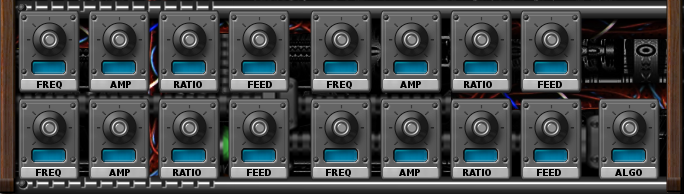
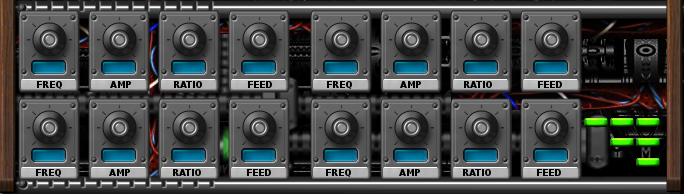
FM/DX manual update.

Changed region(s): [[0.8289, 0.4948, 0.9825, 0.9278]]

diff --git a/dock/doc/docs.html b/dock/doc/docs.html
@@ -107,6 +107,7 @@
         <a href="#predicate_BuildAdsrPanel">BuildAdsrPanel</a>
         <a href="#predicate_BuildChorusPanel">BuildChorusPanel</a>
         <a href="#predicate_BuildDelayPanel">BuildDelayPanel</a>
+        <a href="#predicate_BuildDX9Panel">BuildDX9Panel</a>
         <a href="#predicate_BuildEGPanel">BuildEGPanel</a>
         <a href="#predicate_BuildFEGPanel">BuildFEGPanel</a>
         <a href="#predicate_BuildFilterPanel">BuildFilterPanel</a>
@@ -144,6 +145,7 @@
         <a href="#predicate_command_centre">CommandCentre</a>
         <a href="#predicate_CorePanel">CorePanel</a>
         <a href="#predicate_DelayPanel">DelayPanel</a>
+        <a href="#predicate_DX9Panel">DX9Panel</a>
         <a href="#predicate_EGPanel">EGPanel</a>
         <a href="#predicate_FEGPanel">FEGPanel</a>
         <a href="#predicate_FilterPanel">FilterPanel</a>
@@ -1834,6 +1836,18 @@ A typical construction of an instrument and inserting it into the superstructure
 </div>
 
 <div class="doc_predicate">
+    <a id="predicate_BuildDX9Panel">
+        <div class="doc_predicate_header">
+            [BuildDX9Panel module instrument : selector] => Builds a DX9 panel.<br />
+        </div>
+        <div class="doc_predicate_body">
+            This is a shortcut designed to find the appropriate parameter blocks in superstructure
+            and build a DX9 panel.
+        </div>
+    </a>
+</div>
+
+<div class="doc_predicate">
     <a id="predicate_BuildEGPanel">
         <div class="doc_predicate_header">
             [BuildEGPanel module instrument : selector] => Builds an EG panel.<br />
@@ -2322,6 +2336,23 @@ A typical construction of an instrument and inserting it into the superstructure
 </div>
 
 <div class="doc_predicate">
+    <a id="predicate_DX9Panel">
+        <div class="doc_predicate_header">
+            [DX9Panel module algo freq1 amp1 ratio1 feedback1 .... freq4 amp4 ratio4 feedback4] => Creates a panel for an FM4 module block.<br />
+            [module *x *y] => reposition on the screen<br />
+            [module] => closes the panel<br />
+        </div>
+        <div class="doc_predicate_body">
+            Creates a panel for 22 parameter blocks commonly associated with DX9 block.
+            Range different for each knob.
+            The resolution is 128 steps with left mouse button and 16384 with the right one.<br />
+            <b>Note:</b> do not use DX9Panel directly. Use <a href="#predicate_BuildDX9Panel">BuildDX9Panel</a> instead.<br />
+            <img src="dx9_panel.png" />
+        </div>
+    </a>
+</div>
+
+<div class="doc_predicate">
     <a id="predicate_EGPanel">
         <div class="doc_predicate_header">
             [EGPanel module t1 t2 t3 t4 l1 l2 l3 l4] => Creates a panel for an EG module.<br />
@@ -2375,7 +2406,7 @@ A typical construction of an instrument and inserting it into the superstructure
 <div class="doc_predicate">
     <a id="predicate_FM4Panel">
         <div class="doc_predicate_header">
-            [FM4Panel module algo freq1 amp1 ratio1 feedback1 .... freq4 amp4 ratio4 feedback4] => Creates a panel for an FM4 module block.<br />
+            [FM4Panel module 1=>2 1=>3 .... 3=>4 freq1 amp1 ratio1 feedback1 .... freq4 amp4 ratio4 feedback4] => Creates a panel for a DX9 module block.<br />
             [module *x *y] => reposition on the screen<br />
             [module] => closes the panel<br />
         </div>
